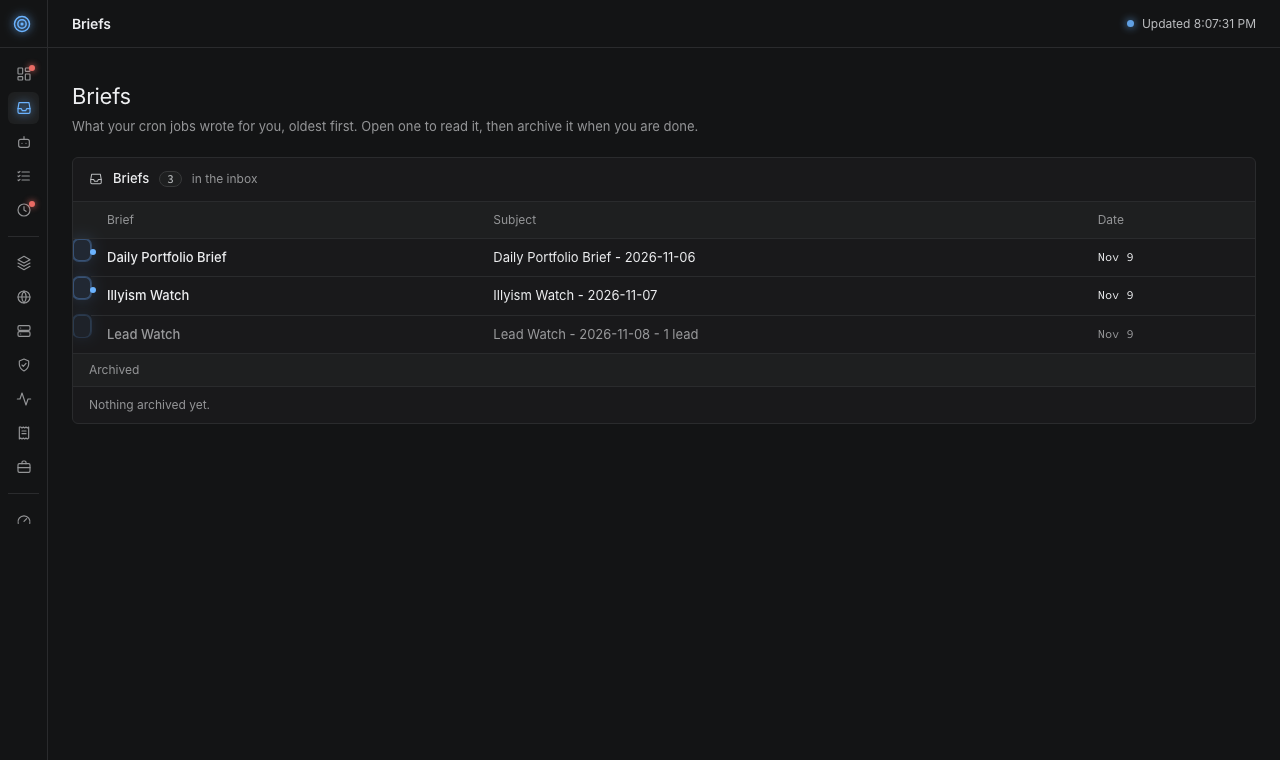
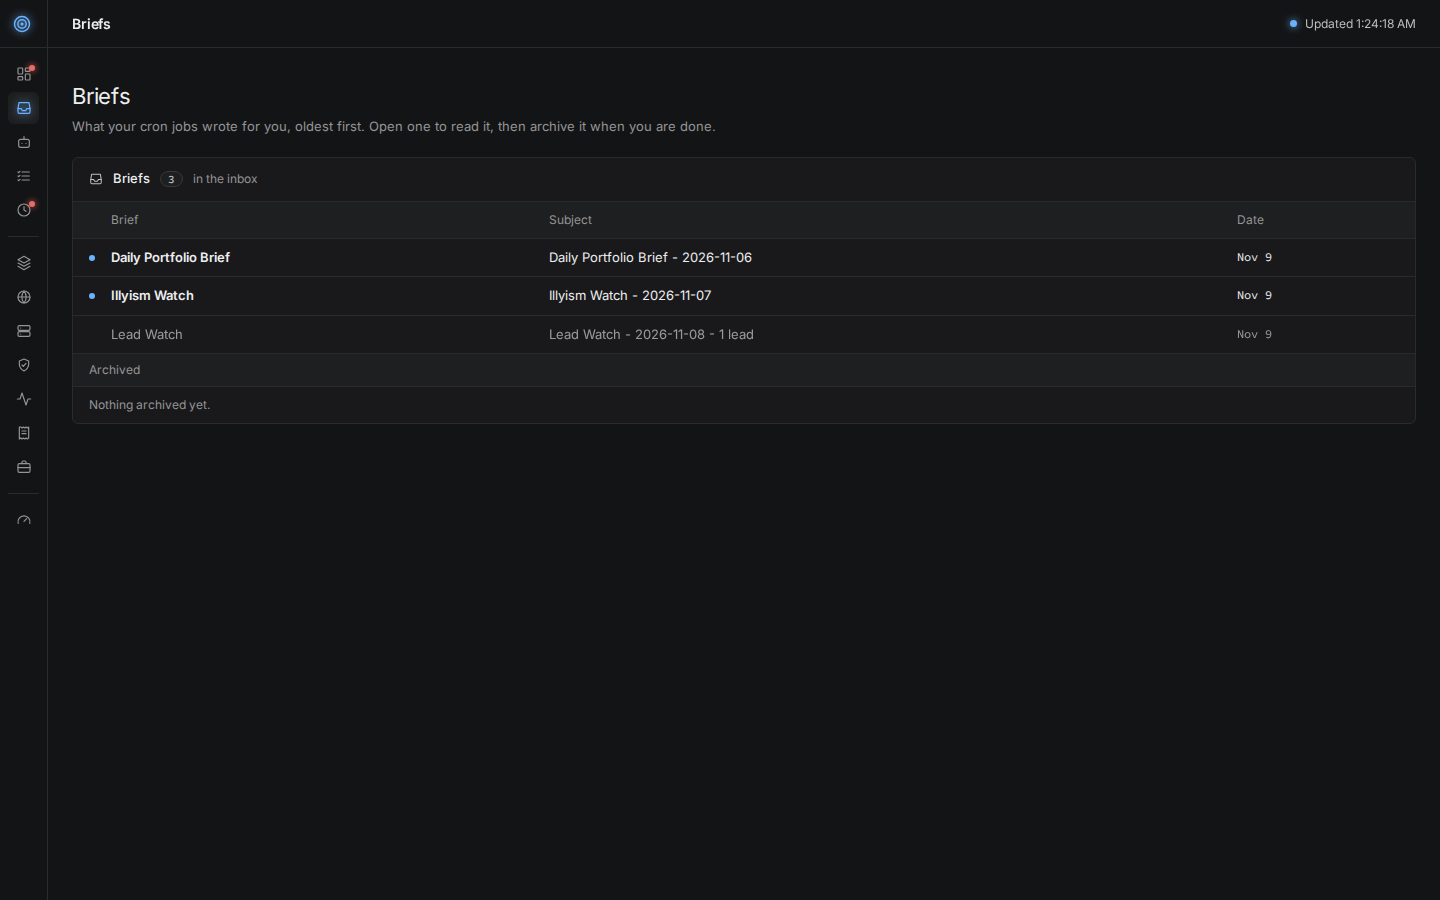
fix(briefs): no .mark box, Archived in the Inbox's table, bold only unread, sidebar count on the click (collector#64)

diff --git a/components/briefs.tsx b/components/briefs.tsx
@@ -1,6 +1,7 @@
 "use client";
 
 import { useEffect, useState } from "react";
+import { mutate } from "swr";
 import type { Brief } from "@/lib/briefs";
 import { useApi } from "./data";
 import { Markdown } from "./markdown";
@@ -38,12 +39,26 @@ const day = (sent_at: string | null | undefined) => {
     : "—";
 };
 
+/** One click's write (Read on open, or Archive). Its answer is the whole view, handed to the shared `/api/briefs`
+ * read so the sidebar count and the Inbox change on the click rather than at the next minute's refresh. */
+export async function postBrief(machine: string, file: string, change: { read?: boolean; archived?: boolean }) {
+  const r = await fetch("/api/briefs", {
+    method: "POST",
+    headers: { "content-type": "application/json" },
+    body: JSON.stringify({ machine, file, ...change }),
+  });
+  const d = await r.json().catch(() => ({}));
+  if (!r.ok) return { ok: false as const, why: (d.why as string) || `HTTP ${r.status}` };
+  mutate("/api/briefs", d, { revalidate: false });
+  return { ok: true as const };
+}
+
 const href = (b: Brief) => `#/briefs/${encodeURIComponent(b.machine)}/${encodeURIComponent(b.file)}`;
 
 /** One row: the dot says Unread, the name opens the brief, and how far down the Inbox it sits is the order itself. */
 const BriefRow = ({ b }: { b: Brief }) => (
   <tr className={b.read ? "read" : "unread"}>
-    <td className="mark">{b.read ? null : <span className="dot" title="Unread" />}</td>
+    <td className="unread-dot">{b.read ? null : <span className="dot" title="Unread" />}</td>
     <td className="name">
       <a className="plain" href={href(b)}>
         {b.brief || b.subject || b.file}
@@ -99,20 +114,23 @@ export function BriefsPage() {
                   </td>
                 </tr>
               )}
-            </tbody>
-          </table>
-        </div>
-        <div className="section-head">Archived</div>
-        <div className="wrap">
-          <table className="briefs">
-            <tbody>
-              {archived.length ? (
-                archived.map((b) => <BriefRow b={b} key={`${b.machine}/${b.file}`} />)
-              ) : (
+              {data ? (
                 <tr>
-                  <td className="sub">Nothing archived yet.</td>
+                  <td colSpan={4} className="section-head">
+                    Archived
+                  </td>
                 </tr>
-              )}
+              ) : null}
+              {data && !archived.length ? (
+                <tr>
+                  <td colSpan={4} className="sub">
+                    Nothing archived yet.
+                  </td>
+                </tr>
+              ) : null}
+              {archived.map((b) => (
+                <BriefRow b={b} key={`${b.machine}/${b.file}`} />
+              ))}
             </tbody>
           </table>
         </div>
@@ -132,22 +150,13 @@ export function BriefPage({ machine, file }: { machine: string; file: string }) 
   // brief carries it.
   useEffect(() => {
     if (!brief || brief.read) return;
-    void fetch("/api/briefs", {
-      method: "POST",
-      headers: { "content-type": "application/json" },
-      body: JSON.stringify({ machine, file, read: true }),
-    });
+    void postBrief(machine, file, { read: true });
   }, [brief, machine, file]);
   const isArchived = archived || Boolean(brief?.archived);
   const archive = async () => {
-    const r = await fetch("/api/briefs", {
-      method: "POST",
-      headers: { "content-type": "application/json" },
-      body: JSON.stringify({ machine, file, archived: true }),
-    });
-    const d = await r.json();
+    const r = await postBrief(machine, file, { archived: true });
     if (r.ok) setArchived(true);
-    else alert(d.why || `HTTP ${r.status}`);
+    else alert(r.why);
   };
   return (
     <div className="page">

diff --git a/tests/briefs-page.test.ts b/tests/briefs-page.test.ts
@@ -1,0 +1,73 @@
+import { createElement } from "react";
+import { renderToStaticMarkup } from "react-dom/server";
+import { afterEach, beforeEach, describe, expect, it, vi } from "vitest";
+import type { Brief } from "@/lib/briefs";
+
+/**
+ * The Briefs page as drawn (collector#64, the PR #81 review): the rows carry no global `.mark` box, Archived shares
+ * the Inbox's columns, unread is told from read by its class, and a click updates the sidebar's count on the spot.
+ */
+const swr = vi.hoisted(() => ({ mutate: vi.fn(), data: undefined as unknown }));
+vi.mock("swr", () => ({ default: () => ({ data: swr.data }), mutate: swr.mutate }));
+
+const { BriefsPage, postBrief } = await import("@/components/briefs");
+
+const brief = (file: string, read: boolean, archived = false): Brief =>
+  ({ machine: "ezio", file, brief: file, subject: `Subject ${file}`, sent_at: null, read, archived }) as Brief;
+
+const draw = () => renderToStaticMarkup(createElement(BriefsPage));
+
+describe("the Briefs page as drawn (collector#64)", () => {
+  beforeEach(() => {
+    swr.data = {
+      at: 0,
+      inbox: [brief("a.md", false), brief("b.md", true)],
+      archived: [brief("c.md", true, true), brief("d.md", true, true)],
+    };
+  });
+
+  it("never gives a row's first cell the global .mark box, and dots only the unread row", () => {
+    const html = draw();
+    expect(html).not.toMatch(/class="mark"/);
+    expect(html.match(/class="dot"/g)).toHaveLength(1);
+  });
+
+  it("draws the Archived rows in the Inbox's own table, under one full-width Archived row", () => {
+    const html = draw();
+    expect(html.match(/<table/g)).toHaveLength(1);
+    expect(html).toMatch(/<td colSpan="4" class="section-head">Archived<\/td>/);
+    expect(html.indexOf("Archived<")).toBeLessThan(html.indexOf("Subject c.md"));
+  });
+
+  it("marks each row unread or read, so the weight follows the class", () => {
+    const html = draw();
+    expect(html.match(/<tr class="unread">/g)).toHaveLength(1);
+    expect(html.match(/<tr class="read">/g)).toHaveLength(3);
+  });
+});
+
+describe("a click on a brief (collector#64)", () => {
+  beforeEach(() => swr.mutate.mockReset());
+  afterEach(() => vi.unstubAllGlobals());
+
+  it("hands the POST's answer to the shared /api/briefs read, so the sidebar count changes at once", async () => {
+    const view = { at: 1, inbox: [], archived: [brief("a.md", true, true)] };
+    vi.stubGlobal(
+      "fetch",
+      vi.fn(async () => new Response(JSON.stringify(view), { status: 200 })),
+    );
+    const r = await postBrief("ezio", "a.md", { archived: true });
+    expect(r.ok).toBe(true);
+    expect(swr.mutate).toHaveBeenCalledWith("/api/briefs", view, { revalidate: false });
+  });
+
+  it("leaves the shared read alone when the write is refused", async () => {
+    vi.stubGlobal(
+      "fetch",
+      vi.fn(async () => new Response(JSON.stringify({ why: "no" }), { status: 409 })),
+    );
+    const r = await postBrief("ezio", "a.md", { archived: true });
+    expect(r).toEqual({ ok: false, why: "no" });
+    expect(swr.mutate).not.toHaveBeenCalled();
+  });
+});

diff --git a/app/globals.css b/app/globals.css
@@ -2039,20 +2039,22 @@
 
   /* Briefs (collector#64): the Inbox and the Archived section, and one brief read as Markdown. */
   .briefs th:first-child,
-  .briefs td.mark {
+  .briefs td.unread-dot {
     width: 18px;
     padding-right: 0;
+    text-align: center;
   }
-  .briefs td.mark .dot {
+  .briefs td.unread-dot .dot {
     display: inline-block;
+    vertical-align: middle;
     width: 6px;
     height: 6px;
     border-radius: 50%;
     background: var(--blue);
   }
   /* Unread is the brief's name at full strength with its dot; a read one stays where it is, dimmed. */
-  .briefs td.name a {
-    font-weight: 500;
+  .briefs tr.unread td.name a {
+    font-weight: 600;
   }
   .briefs tr.read td {
     opacity: 0.6;

diff --git a/components/app.tsx b/components/app.tsx
@@ -204,7 +204,8 @@ function Page({ r }: { r: ReturnType<typeof route> }) {
     case "briefs":
       return <BriefsPage />;
     case "brief":
-      return r.brief ? <BriefPage machine={r.brief[0]} file={r.brief[1]} /> : null;
+      // Keyed by the brief, so one brief's Archived button state never carries to the next one opened.
+      return r.brief ? <BriefPage key={r.brief.join("/")} machine={r.brief[0]} file={r.brief[1]} /> : null;
     case "agents":
       return <AgentsPage />;
     case "agent":

diff --git a/CONTEXT.md b/CONTEXT.md
@@ -578,11 +578,14 @@ is that folder, worked the way an email inbox works.
   a key the page does not know is kept, because its machine may simply not have answered this read.
 - `briefsView()` works the two together from the cached snapshot — no extra ssh — and adds one plain `why` line when a
   machine could not be read, so an empty Inbox is never a lie. `briefBody()` is the one-file read, with its state.
-- The page (`components/briefs.tsx`) is `#/briefs`: the Inbox oldest first, unread in full with its dot and read dimmed
-  where it stands, then the Archived section under it, newest first. `#/briefs/<machine>/<file>` opens one brief as
+- The page (`components/briefs.tsx`) is `#/briefs`: the Inbox oldest first, unread bold with its dot and read in the
+  normal weight, dimmed where it stands, then the Archived rows under a full-width Archived row of the same table (so
+  they share the Inbox's columns), newest first. The dot's cell is `td.unread-dot`: the global `.mark` class is a blue
+  box and must not be reused there. `#/briefs/<machine>/<file>` opens one brief as
   Markdown, and the Archive button sits at its top — the Acknowledge toggle's own button; there is no unarchive in this
   pass. Opening a brief is what makes it Read, and an archived brief still opens. The sidebar's Briefs link carries the
-  Inbox count as a number.
+  Inbox count as a number; both clicks go through `postBrief`, which hands the POST's answer (the whole view) to SWR's
+  `/api/briefs`, so the count changes on the click and not at the next minute's refresh.
 - A brief's Markdown is read as data, never as HTML: `lib/markdown.ts` parses headings, tables, lists, fenced code,
   rules and paragraphs with inline code, bold, italics and links, and `components/markdown.tsx` draws those as React
   nodes. Nothing goes near `dangerouslySetInnerHTML`, so raw HTML in a quoted post prints as the characters it is, and
